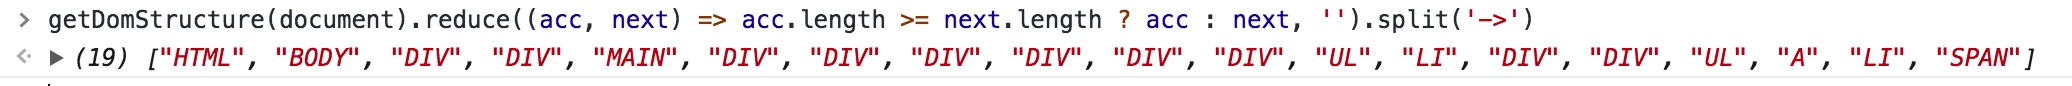
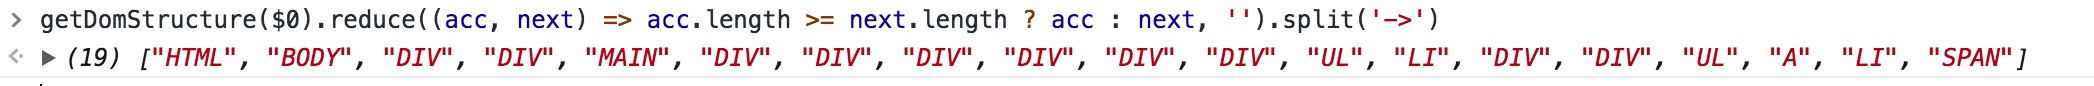
fix dom structure bug

Changed region(s): [[0.0, 0.5349, 0.9884, 0.814], [0.0, 0.093, 0.7413, 0.3953], [0.4015, 0.3488, 0.4324, 0.3721]]

diff --git a/tips/dom_structure.md b/tips/dom_structure.md
@@ -19,7 +19,7 @@ const getDomStructure = (node) => {
   void function fn(d, t) {
     Array.from(d.children).forEach(n => {
       if (n.children.length) {
-        fn(n, t ? `${t}->${n.tagName}` : `${n.tagName}`);
+        fn(n, t ? `${t}->${n.tagName}` : `${d.tagName}->${n.tagName}`);
       } else {
         arr.push(t ? `${t}->${n.tagName}` : `${d.tagName}->${n.tagName}`);
       }
@@ -30,8 +30,6 @@ const getDomStructure = (node) => {
 }
 // 晕晕晕，手头还没笔。回去写...怎么回溯，脑壳疼,我真是SB！！！这个也想半天
 
-// 试试掘金的
-// getDomStructure(document);
+// 试试掘金的, $0为<html>
+// getDomStructure($0);
 ```
-
-![dang](https://github.com/shiyangzhaoa/easy-tips/blob/master/img/dom_structure.png)

diff --git a/tips/dom_depth.md b/tips/dom_depth.md
@@ -14,7 +14,7 @@ const getDomDepth = (node) => {
       if (n.children.length) {
         fn(n, m);
       } else {
-        if (max < m) max = m;
+        if (max < m) max = ++m;
       }
     })
   }(node, 0);
@@ -23,4 +23,4 @@ const getDomDepth = (node) => {
 }
 ```
 
-![pang](https://github.com/shiyangzhaoa/easy-tips/blob/master/img/get_dom_max_depth.jpg)
+![pang](https://github.com/shiyangzhaoa/easy-tips/blob/master/img/get_dom_max_depth.png)
